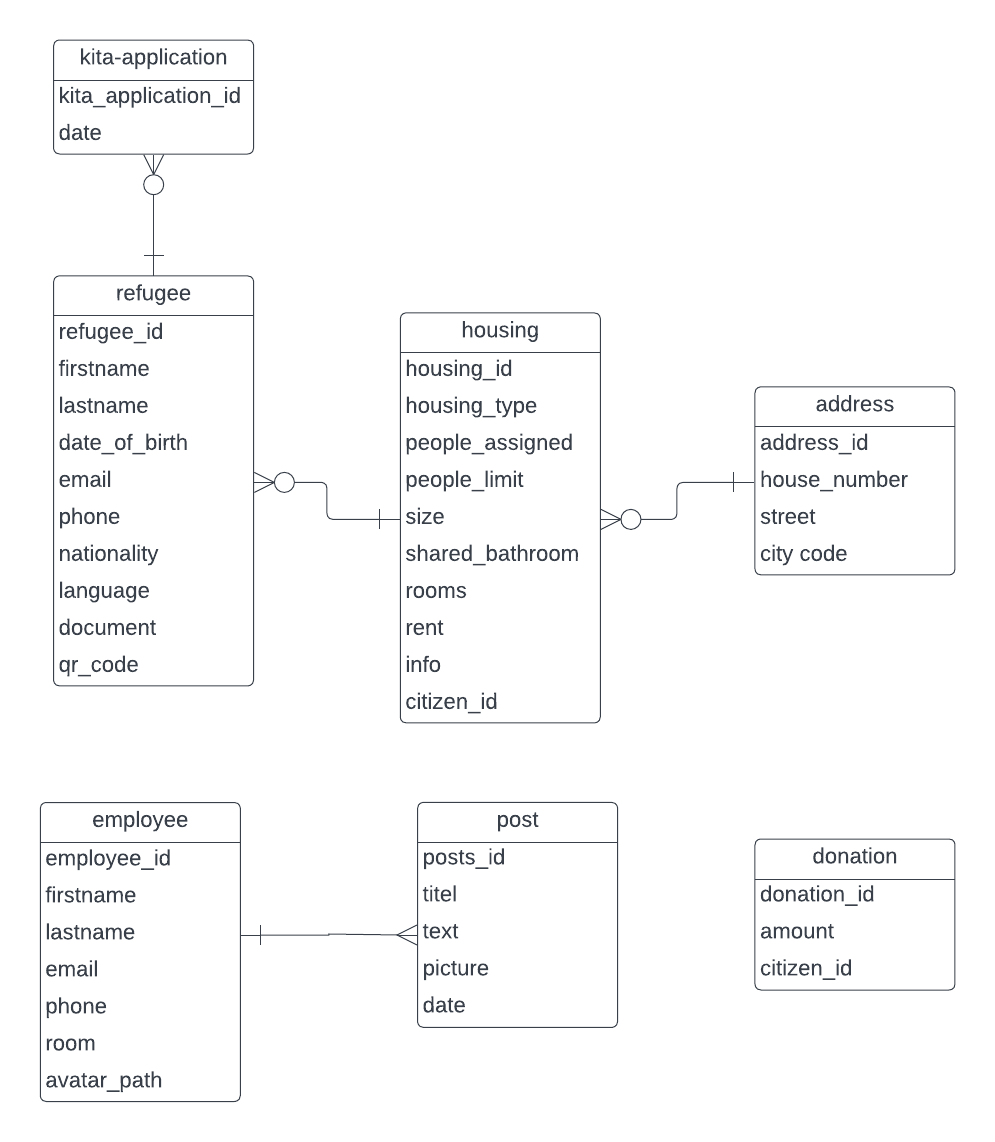
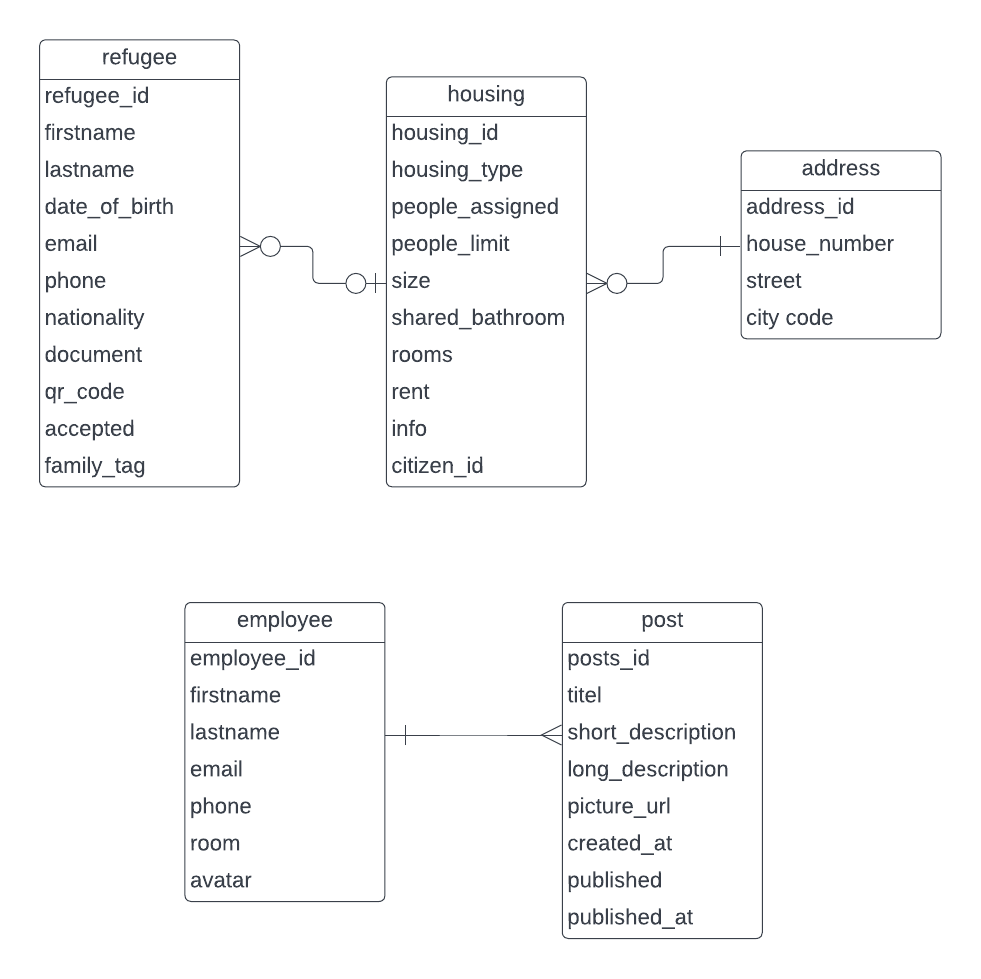
integration UPDATE refactor backand
- refactor backend
- add employee functionality (post, assign housing, accept registration)
- update user stories
- update interfaces
- remove unsed tables in database
- update database

diff --git a/amt_fuer_integration/index.md b/amt_fuer_integration/index.md
@@ -9,8 +9,8 @@ Integrationsprozess zu begleiten. Dabei sollen bürokratischen Hürden überwund
 um schnelle, flexible Hilfe gewährleisten.<br>
 <br>
 Die Gefüchteten können sich und ihre Familie bei der Ankunft digital mit ihren Dokumenten anmelden. 
-Bei diesem Event werden ihnen eine geeigente Unterkunft/Wohnung zugewiesen, sowie ein QR-Code mit 
-dem sie Zugang zur Unterkunft haben. Dieser wird ihnen direkt als Download zur Verfügung gestellt.<br>
+Ein Mitarbeiter wird den Flüchtlingen annehmen Wohnraum zuordnen. Sie bekommen eine QR-Code ausgestellt.
+Dieser wird ihnen direkt als Download zur Verfügung gestellt.<br>
 Des Weiteren können sich die Flüchtlinge mit dem QR-Code Ausweisen. Dadurch können andere Einrichtungen ihren Status abfragen.
 Mit dem QR-Code können Geflüchtete kostenlos mit öffentlichen Verkehrsmittel fahren, sowie an Freitzeitaktivitäten 
 teilnehmen, wie beispielsweise im Fitnessstudio.<br>
@@ -53,51 +53,55 @@ Wichtige Informationen für Bürger werden regelmäßig im Newsletter veröffent
 ### Anmeldevorgang
 | **ID** | **Als** | **möchte ich** | **so dass** | **Akzeptanz** | **Priorität** |
 | :----: | :------ | :------------- | :---------- | :------------ | :-----------: |
-| 1  | Flüchtling | mich Anmelden | um gemeldet zu sein und Zugang zum Portal zu bekommen | Relevante Meldedaten werden ans Bürgerbüro weitergeleitet + Anmeldefunktion bereitgestellt | Must |
+| 1  | Flüchtling | mich Anmelden | um gemeldet zu sein und Zugang zum Portal zu bekommen | Anmeldefunktion bereitgestellt | Must |
 | 2  | Flüchtling | Informationen zum Kontakt mit dem Amt für Integration finden | ich Hilfe auch vor Ort oder per Telefon bekomme | Informationen werden im Service angezeigt | Must |
 | 3  | Flüchtling | einen QR-Code ausgestellt bekommen | diesen Nutzen kann | QR-Code bereitgestellt | Must |
 | 4  | Flüchtling | meinen QR-Code downloaden | ich ihn auf meinen Geräten speichern kann | QR-Code steht zum Download bereit | Must |
 | 5  | Flüchtling | meinen QR-Code drucken | ich ihn habe (falls ich kein mobiles Endgerät besitze) | QR-Code steht zum Drucken bereit | Must |
-| 6  | Flüchtling | eine Unterkunft bekommen | ich dort leben kann | Flüchtling bekommt Unterkunft zugewiesen | Must |
+| 6  | Flüchtling | eine Unterkunft bekommen | ich dort leben kann | Mitarbeiter kann Flüchtling Wohnraum zuweisen | Must |
 | 7  | Flüchtling | mich mit meinem QR-Code ausweisen können | öffentliche Verkehrsmittel oder Freitzeitangebote zu nutzen | Wert des QR-Code ist ein individueller Code der zur Abfrage genutzt werden kann | Must |
-| 8  | Flüchtling | mit meinem QR-Code die Unterkunft öffnen | ich Zugang zur Unterkunft habe | QR-Code-Wert bei der Unterkunft hinterlegt | Must |
-| 9  | Flüchtling | nicht mit meinem QR-Code andere Unterkünfte öffnen | ich sie berauben kann | QR-Code nur einer Unterkunft zugwiesen | Must |
+| 8  | Flüchtling | mit meinem QR-Code die Unterkunft öffnen | ich Zugang zur Unterkunft habe | QR-Code-Wert bei der Unterkunft hinterlegt | Never |
+| 9  | Flüchtling | nicht mit meinem QR-Code andere Unterkünfte öffnen | ich sie berauben kann | QR-Code nur einer Unterkunft zugwiesen | Never |
 
 ### Integration mit Portal
 | **ID** | **Als** | **möchte ich** | **so dass** | **Akzeptanz** | **Priorität** |
 | :----: | :------ | :------------- | :---------- | :------------ | :-----------: |
-| 10 | Flüchtling | meinen QR-Code aufrufen können | ihn jederzeit wieder downloaden oder drucken kann | QR-Code steht zum Drucken bereit | Must |
+| 10 | Flüchtling | meinen QR-Code aufrufen können | ihn jederzeit wieder downloaden oder drucken kann | QR-Code steht zum Drucken bereit | Should |
 | 11 | Flüchtling | neuen QR-Code beantragen | falls ich den alten verloren habe | QR-Code steht zum Drucken/Download bereit | Could |
 | 12 | Flüchtling | die Unterbringung meines Kindes in der Kita beantragen | mein Kind in die Kita gehen kann | Betantragung im Service möglich | Must |
 | 13 | Bürger | Geld spenden | um Flüchtlinge zu unterstüzten | Spenden-Funktionalität bereitgstellt | Must |
-| 14 | Bürger | nicht, das meine Zahlungsdaten öffentlich gemacht werden | die Daten missbraucht werden können | Externer Anbieter mit exellenter Sicherheit durch jahrelanger Erfahrung | Must |
+| 14 | Bürger | nicht, das meine Zahlungsdaten öffentlich gemacht werden | die Daten missbraucht werden können | externer Anbieter mit  Erfahrung in Sicherheitsthemen | Must |
 | 15 | Bürger | Wohnraum bereitstellen | um Flüchtlinge zu helfen | Formular zum Eintragen von zur Verfügung gestellten Wohnraum | Should |
 | 16 | Bürger | im Portal einloggen | ich Geld spenden oder Wohnraum bereitstellen kann | Link zum Portal | Must |
 | 17 | Finanzamt | Informationen zu Spende eines Bürger bekommen | dies steuerlich gelten machen kann und Spendenquittungen ausstellen kann | entsprechendes Event wird getriggert beim Eingang einer neuen Spenden und Informationen werden ausgetauscht | Must |
 | 18 | Kita-Verwaltung | Benachritgung über Bewerbung eines Kita-Platzes bekommen | ich dieses bearbeiten kann | Event wird bereitgesteltl | Must |
+| 19 | Mitarbeiter | Post an Forum schicken | Event wird ausgelöst | Event  | Must |
+| 20 | Mitarbeiter | Flüchtlings Registierung annehmen  | diese in Smart City aufgenommen werden | Event wird ausgelöst, Registierung bekommt Status akzeptiert | Must |
 
 ### Datenabfrage
 | **ID** | **Als** | **möchte ich** | **so dass** | **Akzeptanz** | **Priorität** |
 | :----: | :------ | :------------- | :---------- | :------------ | :-----------: |
-| 19 | Fitnesstudio | den Flüchtlingsstatus abfragen | diese kostenlos mein Angebot nutzen können | Abfrage ist über Events bereitgestellt | Must |
-| 20 | Busunternehmen | den Flüchtlingsstatus abfragen | diese kostenlos mein Angebot nutzen können | Abfrage ist über Events bereitgestellt | Must |
+| 21 | Fitnesstudio | den Flüchtlingsstatus abfragen | diese kostenlos mein Angebot nutzen können | Abfrage ist über Events bereitgestellt | Must |
+| 22 | Busunternehmen | den Flüchtlingsstatus abfragen | diese kostenlos mein Angebot nutzen können | Abfrage ist über Events bereitgestellt | Must |
 
 ### Verwaltung
 | **ID** | **Als** | **möchte ich** | **so dass** | **Akzeptanz** | **Priorität** |
 | :----: | :------ | :------------- | :---------- | :------------ | :-----------: |
-| 21 | Mitarbeiter | Informationen an den Newsletter schicken | Bürger informiert werden können | Event  | Must |
-| 22 | Mitarbeiter | Informationen auf der Landing-Page updaten | um ggf. Änderungen vorzunehmen | Event | Must |
-| 23 | Mitarbeiter | mich im Mitarbeiterbereich einloggen | um meine Aufgaben zu erledigen | Login für Mitarbeiter | Must |
-| 24 | Mitarbeiter | mich im Mitarbeiterbereich ausloggen | keinen unbefugten Zugriff gibt | Logout für Mitarbeiter | Must |
-| 25 | Mitarbeiter | Wohnraum einsehen | ich diesen bearbeiten kann | Wohnraumauflistung im Mitarbeiterbereich mit Bearbeitungsfunktion | Could |
-| 26 | Mitarbeiter | neuen Wohnraum hinzufügen | ich neuen Wohnraum in Datenbank aufnehmen kann | Wohnraum kann hinzugefügt werden | Could |
+| 23 | Mitarbeiter | Newsletter Posts erstellen | Funktionalität bereitgestellt | Event  | Must |
+| 24 | Mitarbeiter | Erstellte Post ansehen | Funktionalität bereitgestellt | Event  | Must |
+| 25 | Mitarbeiter | Informationen auf der Landing-Page updaten | um ggf. Änderungen vorzunehmen | Event wird ausgelöst | Must |
+| 26 | Mitarbeiter | Den Service auf der Landing Page löschen | um Service zu aus der Smart City zu entfernen | Event wird ausgelöst | Must |
+| 27 | Mitarbeiter | mich im Mitarbeiterbereich einloggen | um meine Aufgaben zu erledigen | Login für Mitarbeiter | Must |
+| 28 | Mitarbeiter | mich im Mitarbeiterbereich ausloggen | keinen unbefugten Zugriff gibt | Logout für Mitarbeiter | Must |
+| 29 | Mitarbeiter | Flüchtlings Wohnraum zuweisen  | damit sie eine Wohnung bekommen | Wohnraum wird in der Datenbank mit Flüchtling verknüpft | Must |
+| 30 | Mitarbeiter | neuen Wohnraum hinzufügen | ich neuen Wohnraum in Datenbank aufnehmen kann | Wohnraum kann hinzugefügt werden | Could |
 
 ### User Interface
 | **ID** | **Als** | **möchte ich** | **so dass** | **Akzeptanz** | **Priorität** |
 | :----: | :------ | :------------- | :---------- | :------------ | :-----------: |
-| 27 | User | den Service vom PC aufrufen können | ich eine gute User Expericence habe | Responsive Design | Must |
-| 28 | User | den Service vom mobilen Endgerät aufrufen können | ich eine gute User Expericence habe | Responsive Design | Must |
-| 29 | User | Dark oder White-Mode einstellen | ich eine gute User Expericence habe | Dark-Mode toggle, am Start auf Systempräferenz eingestellt | Must |
+| 31 | User | den Service vom PC aufrufen können | ich eine gute User Expericence habe | Responsive Design | Must |
+| 32 | User | den Service vom mobilen Endgerät aufrufen können | ich eine gute User Expericence habe | Responsive Design | Must |
+| 33 | User | Dark oder White-Mode einstellen | ich eine gute User Expericence habe | Dark-Mode toggle, am Start auf Systempräferenz eingestellt | Could |
 
 ## Graphische Benutzerschnittstelle
 
@@ -253,17 +257,23 @@ http://smart.city/microservices/integration <!--- TODO replace --->
 #### Rest
 | **Name** | **Method** | **URL** | **Request**| **Response** |
 | :------ | :----- | :------ | :------ | :------ |
-| Register New Refugee | POST | api/private/refugee/register | {<br>"firstname": "John",<br>"lastname": "Doe",<br>"date_of_brith": "2000-01-01T00:00:00Z",<br>"email": "johndoe@gmail.com",<br>"phone": "555888" (optional),<br>"nationality": "Germany" (optional),<br>"language": "german" (optional),<br>"document": "testbuffer" (optional)<br>} | {<br>"firstname": "John",<br>"lastname": "Doe",<br>"date_of_brith": "2000-01-01T00:00:00Z",<br>"email": "johndoe@gmail.com",<br>"phone": "555888" (optional),<br>"nationality": "Germany" (optional),<br>"language": "german" (optional),<br>"document": "testbuffer" (optional),<br>"qr_code": "John.Doe.23984-9384",<br>"housing_id": 4<br>} |
-| Register New Refugee Family | POST | api/private/refugee/registerFamily | {<br>"parents": \[<br>{<br>"firstname": "John",<br>"lastname": "Doe",<br>"date_of_brith": "2000-01-01T00:00:00Z",<br>"email": "johndoe@gmail.com",<br>"phone": "555888" (optional),<br>"nationality": "Germany" (optional),<br>"language": "german" (optional),<br>"document": "testbuffer" (optional)<br>}<br> ... \],<br>children: \[<br>{<br>"firstname": "John",<br>"lastname": "Doe",<br>"date_of_brith": "2000-01-01T00:00:00Z",<br>"email": "johndoe@gmail.com",<br>"phone": "555888" (optional),<br>"nationality": "Germany" (optional),<br>"language": "german" (optional),<br>"document": "testbuffer" (optional)<br>}<br> ... \]} | {<br>"parents": \[<br>{<br>"firstname": "John",<br>"lastname": "Doe",<br>"date_of_brith": "2000-01-01T00:00:00Z",<br>"email": "johndoe@gmail.com",<br>"phone": "555888" (optional),<br>"nationality": "Germany" (optional),<br>"language": "german" (optional),<br>"document": "testbuffer" (optional),<br>"qr_code": "John.Doe.234234-23424",<br>"housing_id": 5<br>}<br> ... \],<br>children: \[<br>{<br>"firstname": "John",<br>"lastname": "Doe",<br>"date_of_brith": "2000-01-01T00:00:00Z",<br>"email": "johndoe@gmail.com",<br>"phone": "555888" (optional),<br>"nationality": "Germany" (optional),<br>"language": "german" (optional),<br>"document": "testbuffer" (optional),<br>"qr_code": "John.Doe.234-234",<br>"housing_id": 5<br>}<br> ... \]} |
-| New Donation | POST | api/private/donation | {<br>"amount": 100.0,<br>"citizen_id": "2398492" (optional)<br>} | {<br>"id": 1,<br> "amount": 100.0,<br>"citizen_id": "2398492" (optional)<br>} |
-| New Kita Application | POST | api/private/kita | {<br>"date": "2000-01-01T00:00:00Z",<br>"care_time": 40,<br>"child":<br>{<br>"citizen_id: 12345,<br>"refugee_id": 45678<br>},<br>"parent":<br>{<br>"citizen_id": 44345,<br>"refugee_id": 423444<br>},<br>} | {<br>"id": 1,<br> "date": "2000-01-01T00:00:00Z",<br>refugee_id: "45678" <br>} |
-| New Post | POST | api/private/post | {<br>"title": "text",<br>"text": "testtext",<br>"picture": "http://testurl.de" (optional),<br>"date": "2000-01-01T00:00:00Z",<br>"employee_id": "2398492"<br>} | {<br>"id": 1,<br>"title": "text",<br>"text": "testtext",<br>"picture": "http://testurl.de" (optional),<br>"date": "2000-01-01T00:00:00Z",<br>"employee_id": "2398492"<br> } |
-| New Housing | POST | api/private/housing | {<br>"housing":<br>{<br>"housing_type": "C117",<br>"people_assigned": 0,<br>"people_limit": 4,<br>"size": 80.0,<br>"shared_bathroom": true (optional),<br>"rooms": 3 (optional),<br>"rent": 0.0,<br>"info": "additional info" (optional),<br>"citizen_id": 234565 (optional)<br>},<br>"address:<br>{<br>"house_number": 5,<br> "street":"Musterweg",<br>"city_code": 12334<br>},<br>}| {<br>"id": 1,<br>"housing_type": "C117",<br>"people_assigned": 0,<br>"people_limit": 4,<br>"size": 80.0,<br>"shared_bathroom": true (optional),<br>"rooms": 3 (optional),<br>"rent": 0.0,<br>"info": "additional info" (optional),<br>"citizen_id": 234565 (optional),<br>"address_id": 22<br>} |
-| Get All Housing | GET | api/private/housing | - | ArrayList of all Housings | 
-| Get Housing | GET | api/private/housing/:id | - | {<br>"id": 1,<br>"housing_type": "C117",<br>"people_assigned": 0,<br>"people_limit": 4,<br>"size": 80.0,<br>"shared_bathroom": true (optional),<br>"rooms": 3 (optional),<br>"rent": 0.0,<br>"info": "additional info" (optional),<br>"citizen_id": 234565 (optional),<br>"address_id": 22<br>} |
-| Update Housing | PUT | api/private/housing/:id | {<br>"housing_type": "C117" (optional),<br>"people_assigned": 0 (optional),<br>"people_limit": 4(optional),<br>"size": 80.0 (optional),<br>"shared_bathroom": true (optional),<br>"rooms": 3 (optional),<br>"rent": 0.0 (optional),<br>"info": "additional info" (optional),<br>"citizen_id": 234565 (optional),<br>"address_id": 22 (optional)<br>} | {<br>"housing_type": "C117" (optional),<br>"people_assigned": 0 (optional),<br>"people_limit": 4(optional),<br>"size": 80.0 (optional),<br>"shared_bathroom": true (optional),<br>"rooms": 3 (optional),<br>"rent": 0.0 (optional),<br>"info": "additional info" (optional),<br>"citizen_id": 234565 (optional),<br>"address_id": 22 (optional)<br>} |
-| Delete Housing | DELETE | api/private/housing/:id | - | 'Housing Deleted' |
-| Get All Employees | GET | api/private/employee | - | ArrayList of all Employees |
+| Register | POST | api/private/register | {<br>"firstname": "John",<br>"lastname": "Doe",<br>"date_of_brith": "2000-01-01T00:00:00Z",<br>"email": "johndoe@gmail.com",<br>"phone": "555888" (optional),<br>"nationality": "Germany" (optional),<br>family_tag: "1234" (optional),<br>"document": "testbuffer" (optional)<br>} | { message: 'success' } |
+| Register Accept | - | api/private/register/accept/:id | refugee_id | { message: 'success' } |
+| Register Delete | DELETE | api/private/register/:id | refugee_id | { message: 'success' } |
+| New Post | POST | api/private/post | {<br>"title": "text",<br>"short_description": "testtext",<br>"long_description": "testtext" (optional),<br>"picture_url": "http://testurl.de" (optional),<br>"employee_id": "2398492"<br>} | { message: 'success' } |
+| Post Get | GET | api/private/draft | - | \[ post1, post2, ...\] |
+| Post Delete | DELETE | api/private/post/:id | id | { message: 'success' } |
+| Post Publish | - | api/private/post/publish/:id | id | { message: 'success' } |
+| Kita Event | POST | api/private/kita | {<br>"date": "2000-01-01T00:00:00Z",<br>"care_time": 40,<br>"child":<br>{<br>"citizen_id: 12345},<br>"parent":<br>{<br>"citizen_id": 44345},<br>} | { message: 'success' } |
+| New Housing | POST | api/private/housing | {<br>"housing":<br>{<br>"housing_type": "C117",<br>"people_assigned": 0, (optional)<br>"people_limit": 4,<br>"size": 80.0,<br>"shared_bathroom": true (optional),<br>"rooms": 3 (optional),<br>"rent": 0.0,<br>"info": "additional info" (optional),<br>"citizen_id": 234565 (optional)<br>},<br>"address:<br>{<br>"house_number": 5,<br> "street":"Musterweg",<br>"city_code": 12334<br>},<br>}| { message: 'success' }  |
+| Housing Assign | PUT | api/private/housing/assign | {<br>"refugee_id": 1,<br>"housing_id": 1,<br>} | { message: 'success' }  | 
+| Housing Get | GET | api/private/housing | - | \[ housing1, housing2, ...\] | 
+| Housing Delete | GET | api/private/housing/:id | - | { message: 'success' }  | 
+| Employees Get All | GET | api/private/employee | - | \[ employee1, employee2, ... \] |
+| Employees Get | GET | api/private/employee/:email | email | {<br>employee_id: 1, <br>"firstname": "John",<br>"lastname": "Doe",<br>"email": "test@test.com",<br>"phone": 1932943 (optional),<br>"room": "c123" (optional),<br>,"avatar": "src/img/avatar" (optional),<br>} |
+| Donation Event | POST | api/private/donation/publish | {<br>"amount": 100.0,<br>"citizen_id": "2398492"<br>} | { message: 'success' } |
+| Aboutus Event | POST | api/private/aboutus/publish | {<br>"date": "2000-01-01T00:00:00Z",<br>"aboutus": "testest"<br>} | { message: 'success' } |
+| Aboutus Event Delete | POST | api/private/aboutus/delete | {<br>"date": "2000-01-01T00:00:00Z"<br>} | { message: 'success' } |
 
 
 ### Öffentliche Schnittstellen
@@ -278,12 +288,13 @@ http://smart.city/microservices/integration <!--- TODO replace --->
 | Finanzamt | private.integration | {<br>"event_id": 9003,<br>"event_name": "Notify Incoming Donation",<br>"service_name": "integration",<br>"amount": 50.45,<br>"citizen_id": 12345<br>} |
 | Newsletter| public.integration | {<br>"event_id": 9004,<br>"event_name": "New Newsletter Post",<br>"service_name": "integration",<br>"title": "xyz",<br>"text": "foo bar long",<br>"picture": "https://google.de/picture1"<br>"date": "YYYY-MM-DDTHH:MM:SS" (optional)<br>} |
 | Landing Page | public.integration | {<br>"event_id": 9005,<br>"event_name": "Update About Us",<br>"service_name": "integration",<br>"date": "YYYY-MM-DDTHH:MM:SS",<br>"about_us": "about us foo bar text .. ",<br>"picture": "https://google.de/picture1"<br>} |
+| Landing Page Delete | public.integration | {<br>"event_id": 9006,<br>"event_name": "Delete My Service",<br>"service_name": "integration",<br>"date": "YYYY-MM-DDTHH:MM:SS",<br>} |
 
 #### Queries
 
 | **Name** | **Method** | **URL** | **Parameter** | **Response Example** | **Response Type** |
 | :------ | :----- | :------ | :------ | :------ | :------ |
-| Refugee status  | GET | api/refugee/:qr_code | String qr_code | { "status": true } | json |
+| Refugee status  | GET | api/public/refugee/:qr_code | String qr_code | { "status": true } | json |
 
 ### Dependencies
 
